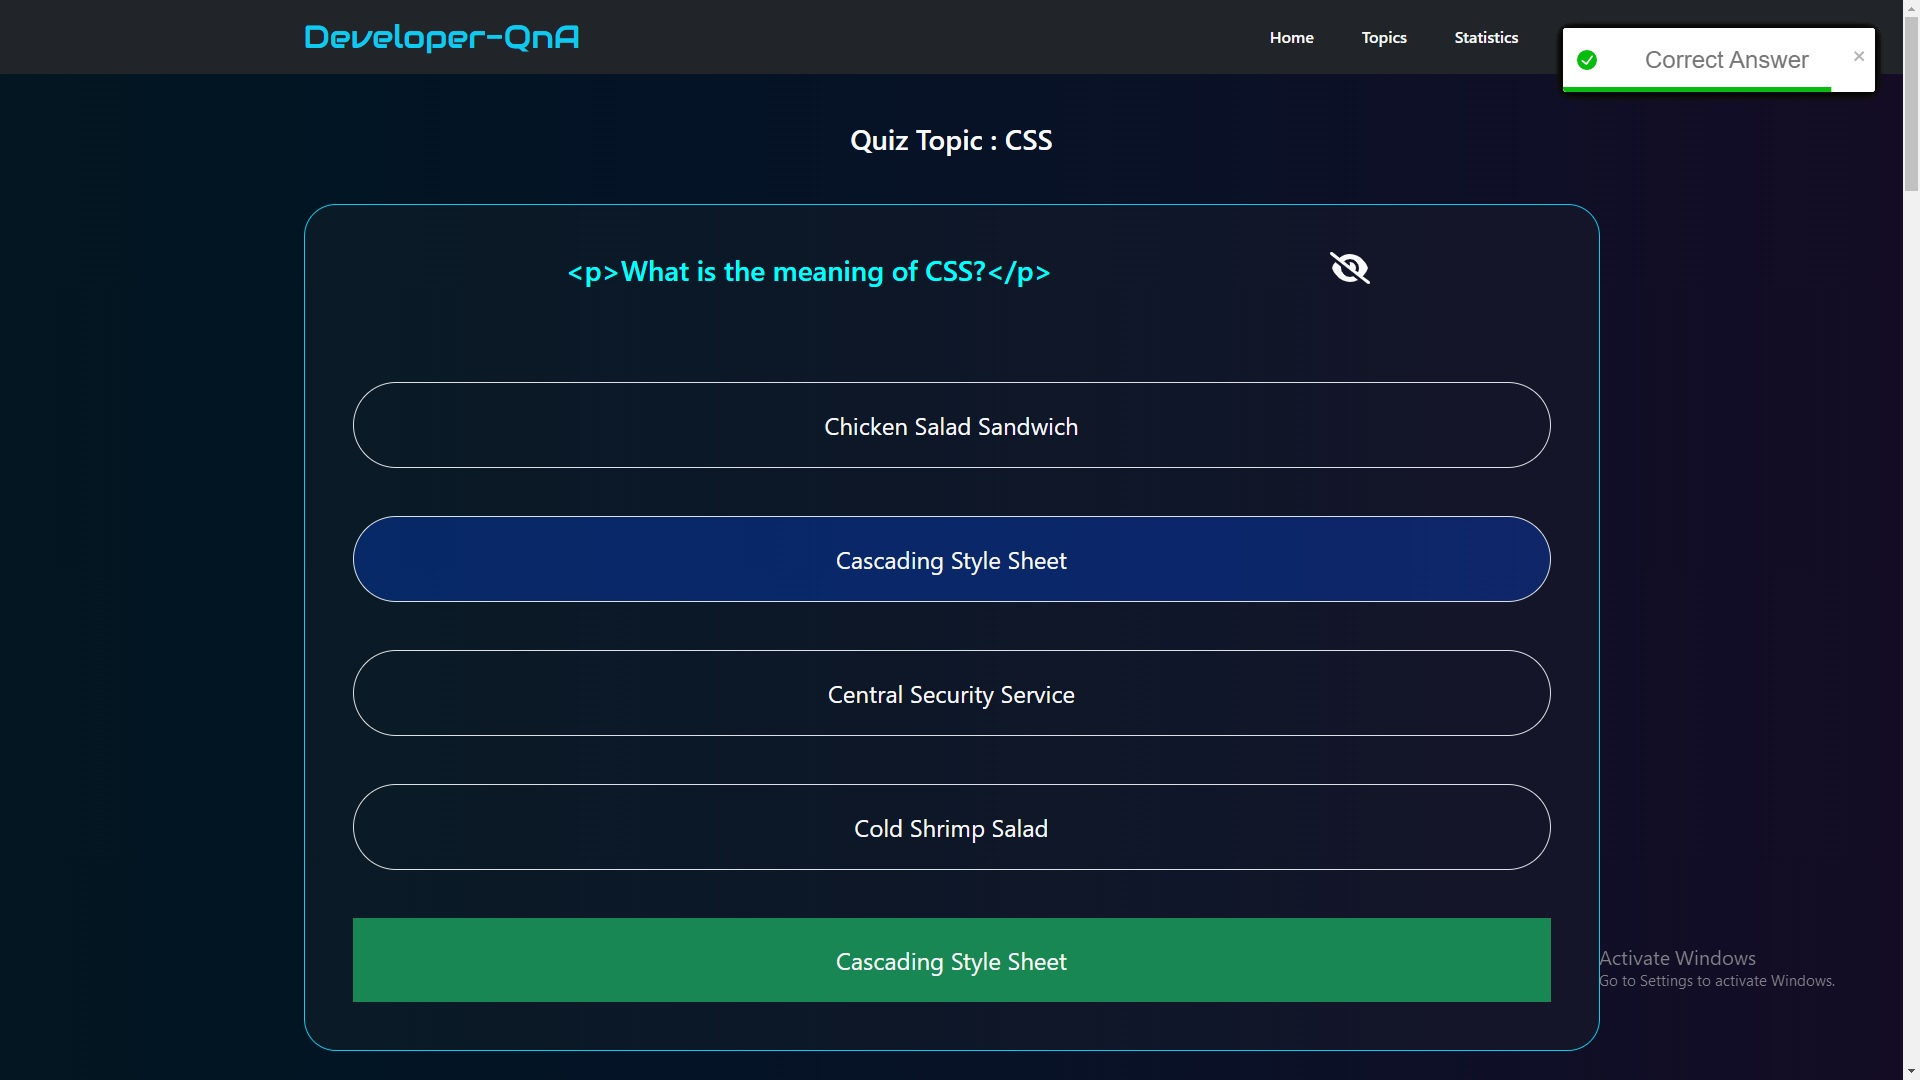
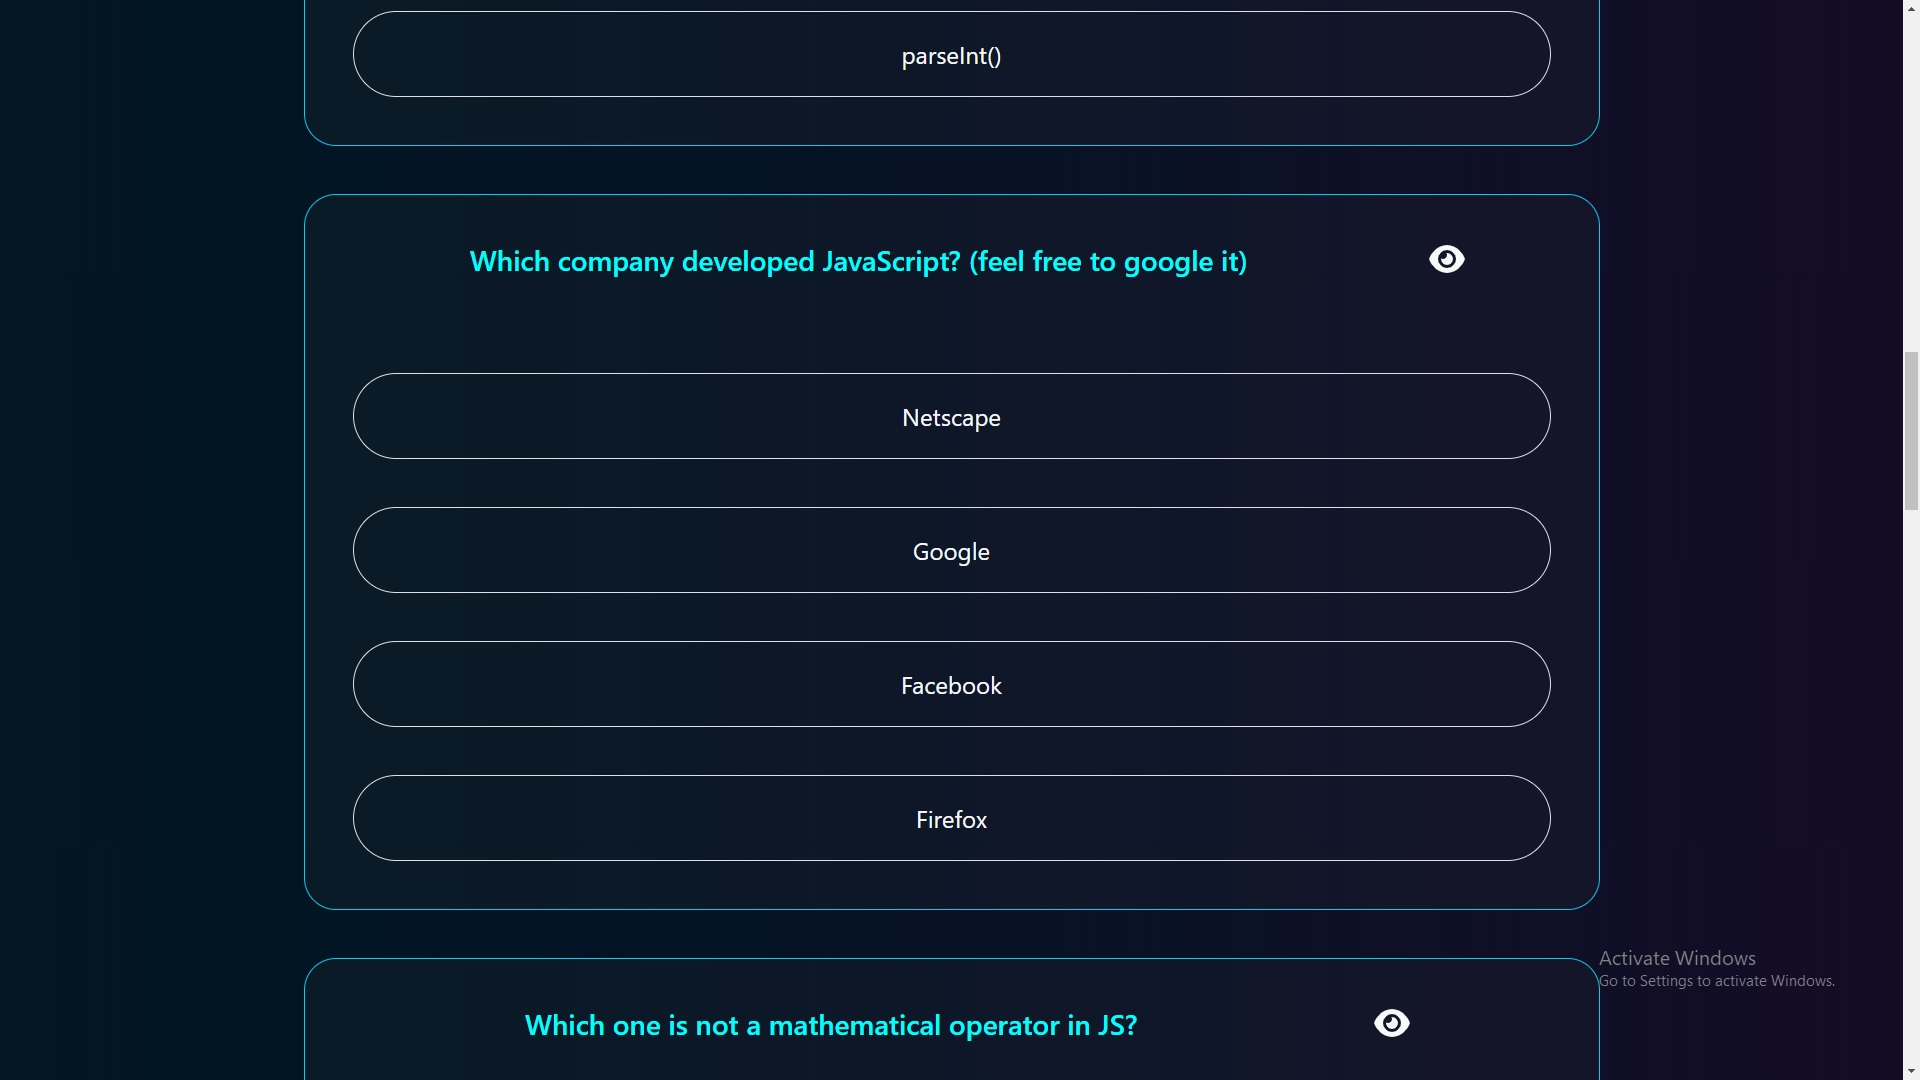
changed the developer qna details 3rd image

diff --git a/src/index.css b/src/index.css
@@ -5,7 +5,7 @@ body {
     sans-serif;
   -webkit-font-smoothing: antialiased;
   -moz-osx-font-smoothing: grayscale;
-  background-image: url('assets/background-images/2.jpg');
+  background-image: url('assets/background-images/1.jpg');
   background-repeat: no-repeat;
   background-size: cover;
   background-attachment: fixed;
